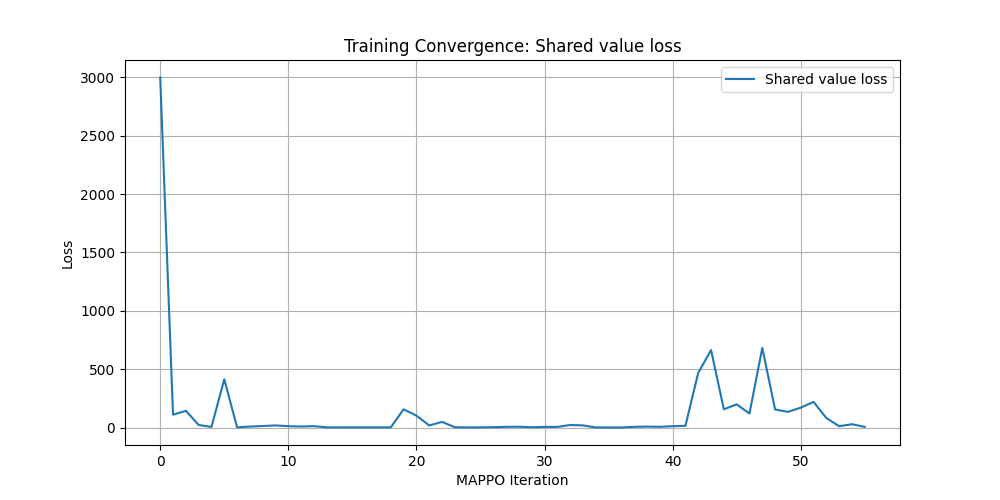
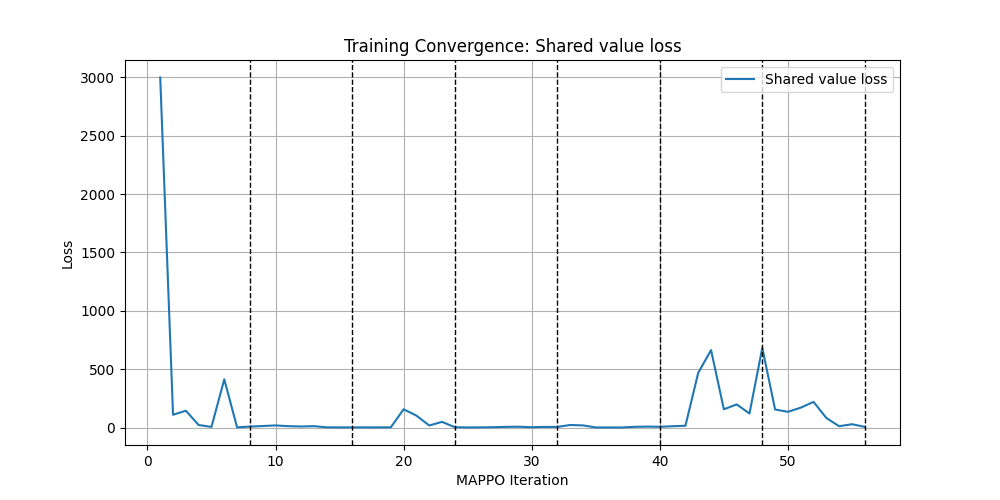
Better loss visualization (part 2)

diff --git a/results_analysis.py b/results_analysis.py
@@ -47,12 +47,15 @@ def combine_all_results(basic_path: str):
 
 def display_one(losses: list[Tensor], loss_name: str, path: str):
     plt.figure(figsize=(10, 5))
-    plt.plot(losses, label=loss_name)
+    x_values = range(1, len(losses) + 1)
+    plt.plot(x_values, losses, label=loss_name)
     plt.xlabel('MAPPO Iteration')
     plt.ylabel('Loss')
     plt.title('Training Convergence: '+loss_name)
     plt.legend()
     plt.grid(True)
+    for x in range(8, len(losses) + 1, 8):
+        plt.axvline(x=x, color='black', linestyle='--', linewidth=1)
     plt.savefig(path+"/"+loss_name+".png")
     plt.show()
 
